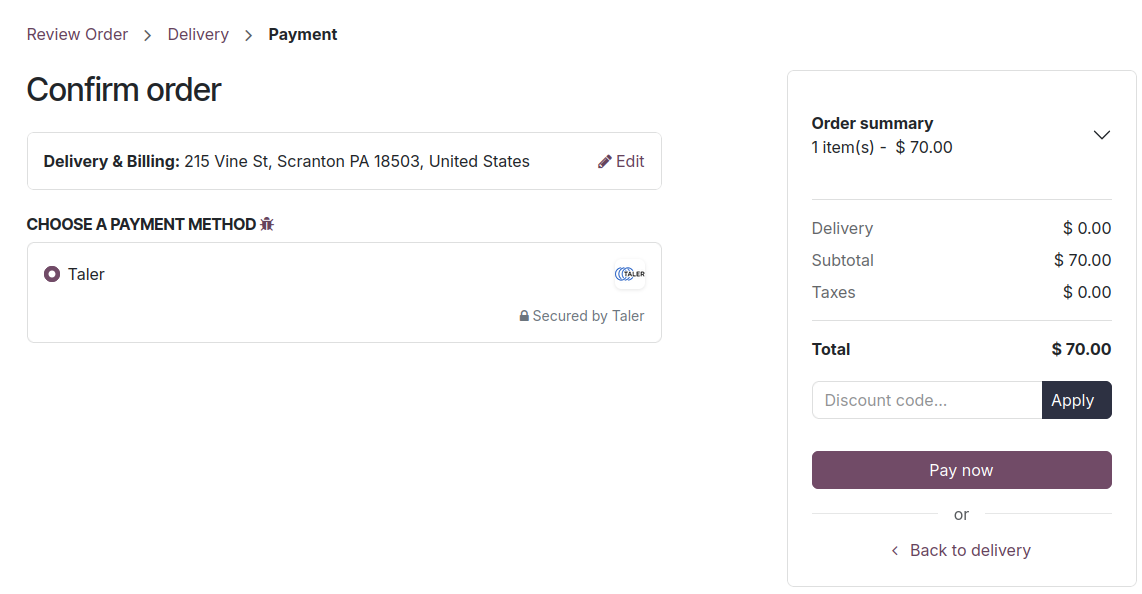
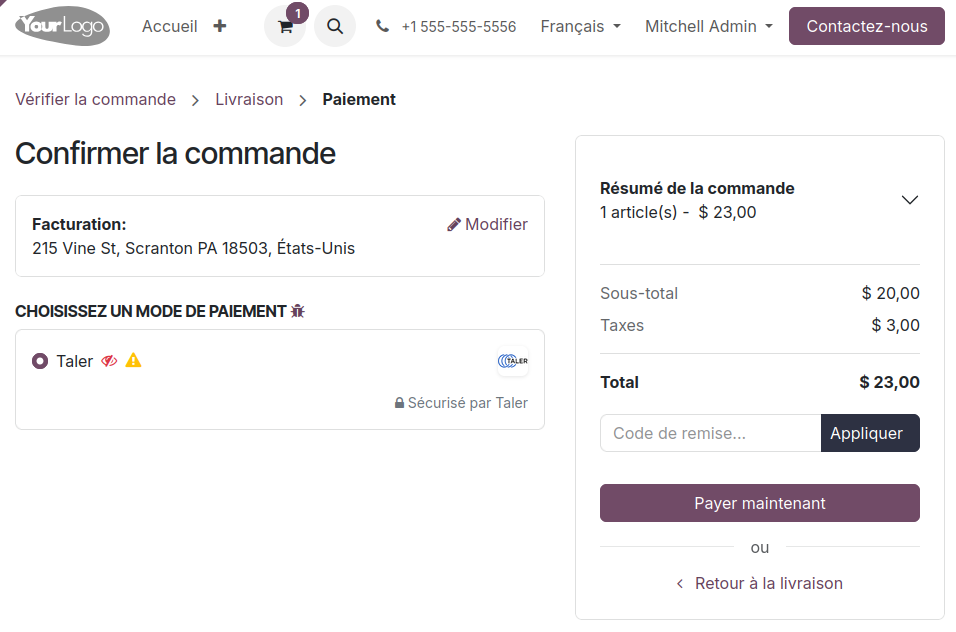
Added french pictures to README_FR.md

diff --git a/Devlog/26-02-18.md b/Devlog/26-02-18.md
@@ -8,22 +8,18 @@ On the 18th of February 2026:
 
 Another long gap in devlogs, but the progress has been great!
 
-Code translation is complete
+The translation of the add-on's code is complete! Next step is translating the README file and the few more documentation files I will make before the project is complete. For that purpose, I went through the whole readme file again, added a few sections (how to contribute, how to translate, etc...) and polished it to send to my translator, for them to make a translation of this file. I make sure to re-take all the documentation's screenshots in French, only the text is left. The file README_FR.md has been created on the repository's main branch.
 
-Accessibility is complete
+Speaking about that, upon request, and to align my code to the standard, I moved all the code in a `payment_taler` sub-directory, and I renamed the main branch from `main` to `18.0`. When I will update the add-on to Odoo 19, I will make a new branch with this name, and make it the new main branch when ready. This is how most other Odoo add_ons are laid out as well.
 
-Readme is complete, added documentation on how-to-translate
+The accessibilization of the module is complete as far as I can take it while being limited by the Odoo framework. This mostly includes screen reader guardrails and alt text.
 
-Started making the README in French
+I initially had setup email support at the address tops_support@zaclys.net, but I actually don't think I will use it, because this forum is perfect for public support. I asked around, and it is ok if I direct technical support questions to this forum category https://ich.taler.net/c/integrations/odoo/29. I am super happy to be able to do this instead of maintaining private support via email.
 
-Setup email support at the address XYZ
+I knocked out a massive amount of TODO items, basically everything that could be improved in the code itself.
 
-Knocked out the TODO items
+On the repository itself, I added a CI pipeline to run unit testing automatically, using Woodpecker (You can see a pipeline run example here: https://ci.codeberg.org/repos/16380/pipeline/20/1). I also configured the repository to have releases and packaging based on tags, and made a first dummy release to try it out.
 
-Started sending the module to the two shops (Odoo app store and OCA)
+Next step: I will start on gathering approvals to upload my module on the two add-on shops I am aiming for, the Odoo app store and OCA community shop.
 
-I added pipeline for unit testing using Woodpecker (link to pipeline)
-
-I added releases, and packaging based on tags
-
-I went through the whole readme file again, and polished it to send to my translator, for them to make a translation of this file
+I'm super excited to reach this point in the project, and to start seeing a complete bundle of tons of different tasks!

diff --git a/README_FR.md b/README_FR.md
@@ -4,9 +4,9 @@ SPDX-FileCopyrightText: 2025 Mael Panouillot <panouillot.mael@gmail.com>
 SPDX-License-Identifier: LGPL-3.0-or-later
 -->
 
-_This page is also available in French (here)[link to lisezmoi_fr.md] LISEZMOI_FR.md
+_This page is also available in French [here](https://codeberg.org/Nemael/tops/src/branch/18.0/README_FR.md). 
 
-_Cette page est également disponible en Français (ici)[lien vers lisezmoi_fr.md] LISEZMOI_FR.md_
+_Cette page est également disponible en Français [here](https://codeberg.org/Nemael/tops/src/branch/18.0/README_FR.md).
 
 ---
 
@@ -103,7 +103,7 @@ It has been built for Odoo 18, and will be updated to Odoo 19 once milestone 1.0
 <img src="payment_taler/README_Pictures/FR/Taler_invoices_payment_method.png" alt="Taler invoices payment method" width="700px">
 
 - When you are done, click `Confirm` at the top, you will be led to the invoice page.
-  - You can now click `Preview` to see the Invoice that will be sent to your customer.
+  - You can now click `Aperçu` to see the Invoice that will be sent to your customer.
   - The invoice's PDF will include a Taler payment QR Code, as well as some Taler order information.
 
 <img src="payment_taler/README_Pictures/FR/Taler_invoices_taler_qr_code.png" alt="Taler invoices taler qr code" width="700px">
@@ -200,16 +200,16 @@ It has been built for Odoo 18, and will be updated to Odoo 19 once milestone 1.0
 - In the `website` or `invoicing` add-on, navigate to `Configuration -> Payment Transactions` on the top bar.
   - This page will show you all the transactions that have been completed.
 - Click the transaction that you would like to refund.
-  - In the picture below, the transaction to refund is `S00060`.
+  - In the picture below, the transaction to refund is `S00041-3`.
 
 <img src="payment_taler/README_Pictures/FR/Taler_refund_list_of_transactions.png" alt="Taler list of transactions" width="700px">
 
 - On the transaction page, click on the linked payment found in `Payment`.
-  - In the picture below, the linked payment is `PBNK1/2026/00029`.
+  - In the picture below, the linked payment is `PBNK1/2026/00001`.
 
 <img src="payment_taler/README_Pictures/FR/Taler_refund_transaction.png" alt="Taler transaction page" width="700px">
 
-- On the payment page, click `Refund` in the action button section (top-left) and confirm the refund.
+- On the payment page, click `Remboursement` in the action button section (top-left) and confirm the refund.
 
 <img src="payment_taler/README_Pictures/FR/Taler_refund_payment.png" alt="Taler payment page" width="700px">
 

diff --git a/README.md b/README.md
@@ -4,9 +4,9 @@ SPDX-FileCopyrightText: 2025 Mael Panouillot <panouillot.mael@gmail.com>
 SPDX-License-Identifier: LGPL-3.0-or-later
 -->
 
-_This page is also available in French (here)[link to lisezmoi_fr.md] LISEZMOI_FR.md
+_This page is also available in French [here](https://codeberg.org/Nemael/tops/src/branch/18.0/README_FR.md). 
 
-_Cette page est également disponible en Français (ici)[lien vers lisezmoi_fr.md] LISEZMOI_FR.md_
+_Cette page est également disponible en Français [here](https://codeberg.org/Nemael/tops/src/branch/18.0/README_FR.md).
 
 ---
 
